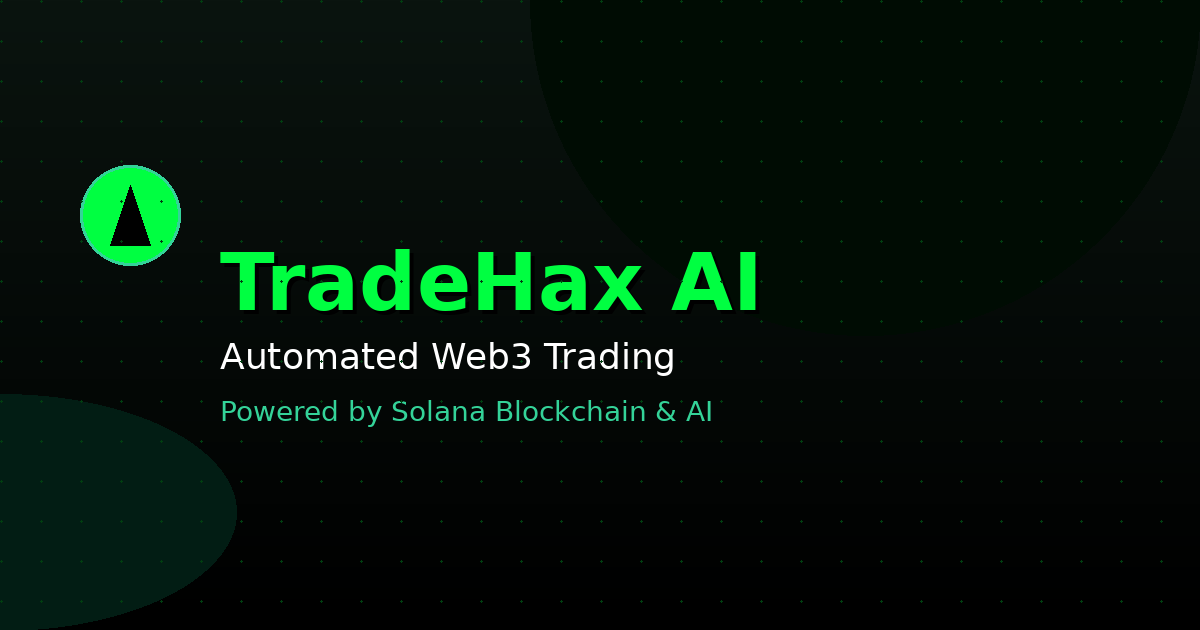
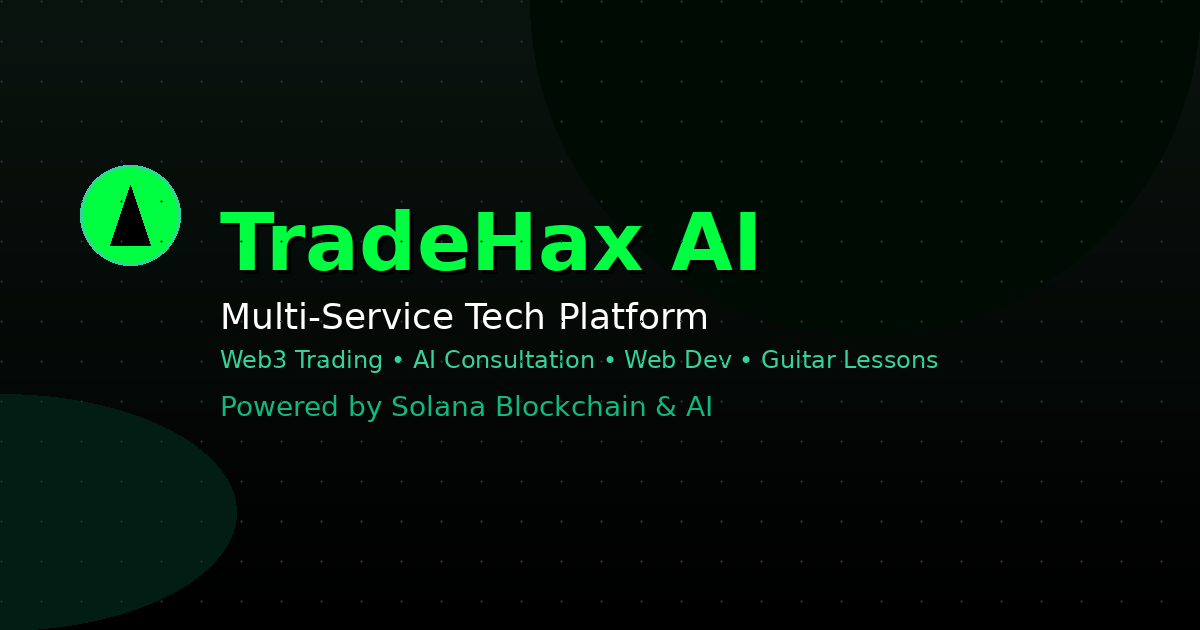
Update social media images and metadata to showcase all platform services

Changed region(s): [[0.185, 0.3317, 0.7708, 0.6032], [0.185, 0.6333, 0.5858, 0.6937]]

diff --git a/app/layout.tsx b/app/layout.tsx
@@ -19,9 +19,9 @@ export const viewport: Viewport = {
 };
 
 export const metadata: Metadata = {
-  title: "TradeHax AI - Automated Web3 Trading Platform",
-  description: "Advanced automated trading platform powered by Solana blockchain. Trade smarter with AI-driven insights and decentralized technology.",
-  keywords: ["Web3 trading", "Solana", "automated trading", "DeFi", "blockchain", "crypto trading", "AI trading", "decentralized finance"],
+  title: "TradeHax AI - Multi-Service Tech Platform",
+  description: "Multi-service tech platform offering Web3 trading, AI consultation, web development, and guitar lessons. Powered by Solana blockchain and AI technology.",
+  keywords: ["Web3 trading", "AI consultation", "web development", "guitar lessons", "Solana", "automated trading", "DeFi", "blockchain", "crypto trading", "AI trading", "tech services"],
   authors: [{ name: "TradeHax AI" }],
   creator: "TradeHax AI",
   publisher: "TradeHax AI",
@@ -30,8 +30,8 @@ export const metadata: Metadata = {
     canonical: "https://tradehaxai.tech",
   },
   openGraph: {
-    title: "TradeHax AI - Automated Web3 Trading Platform",
-    description: "Advanced automated trading platform powered by Solana blockchain. Trade smarter with AI-driven insights and decentralized technology.",
+    title: "TradeHax AI - Multi-Service Tech Platform",
+    description: "Web3 Trading • AI Consultation • Web Development • Guitar Lessons. Powered by Solana blockchain and AI technology.",
     url: "https://tradehaxai.tech",
     siteName: "TradeHax AI",
     locale: "en_US",
@@ -41,14 +41,14 @@ export const metadata: Metadata = {
         url: "/og-image.png",
         width: 1200,
         height: 630,
-        alt: "TradeHax AI - Automated Web3 Trading Platform",
+        alt: "TradeHax AI - Multi-Service Tech Platform: Web3 Trading, AI Consultation, Web Dev, Guitar Lessons",
       },
     ],
   },
   twitter: {
     card: "summary_large_image",
-    title: "TradeHax AI - Automated Web3 Trading Platform",
-    description: "Advanced automated trading platform powered by Solana blockchain. Trade smarter with AI-driven insights and decentralized technology.",
+    title: "TradeHax AI - Multi-Service Tech Platform",
+    description: "Web3 Trading • AI Consultation • Web Development • Guitar Lessons. Powered by Solana blockchain and AI technology.",
     images: ["/twitter-image.png"],
     creator: "@tradehaxai",
   },
